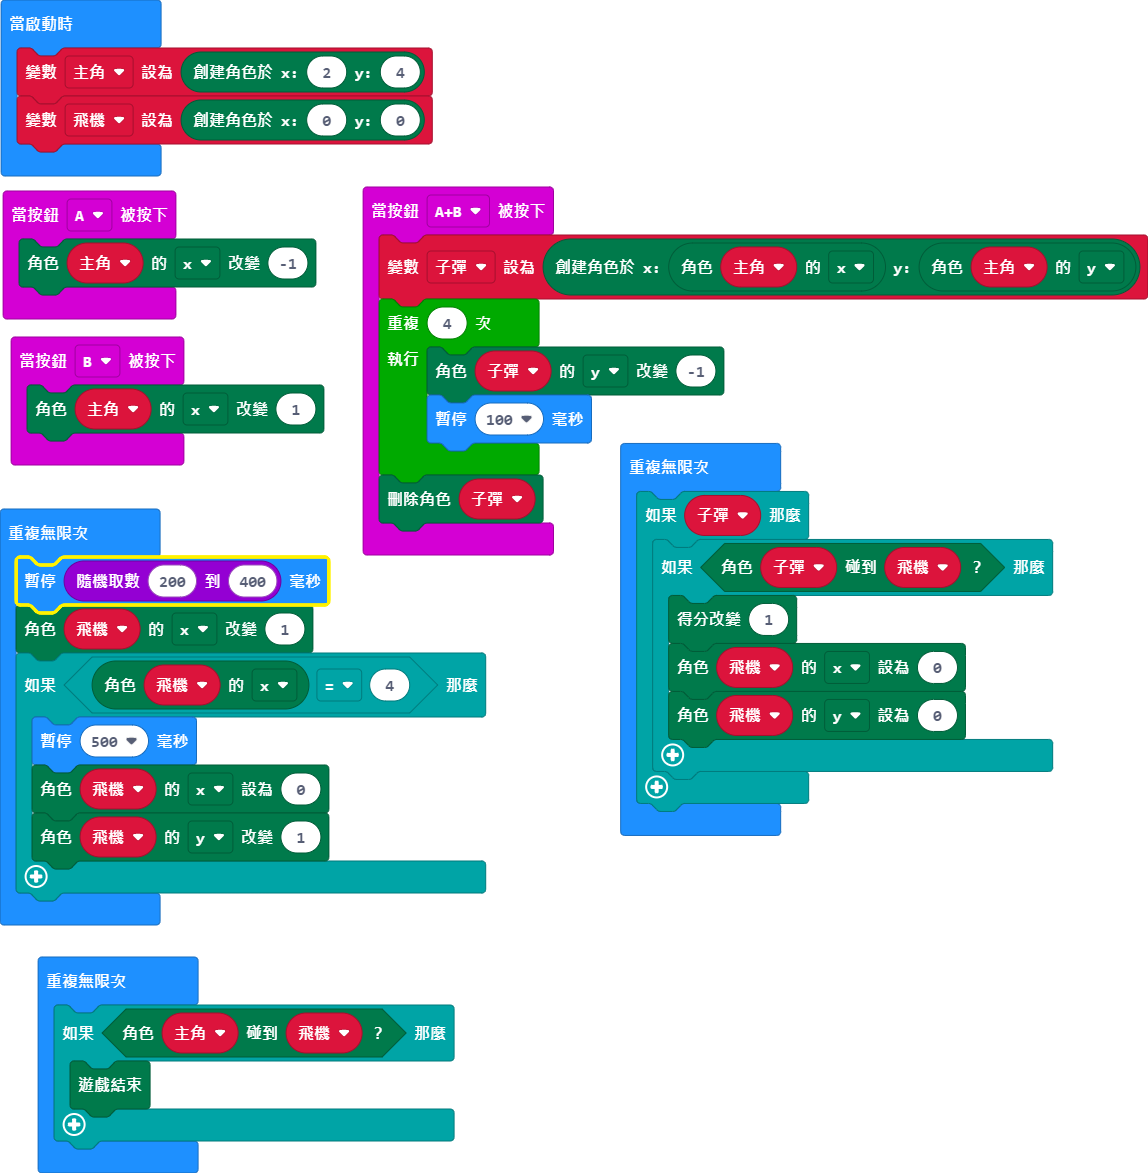
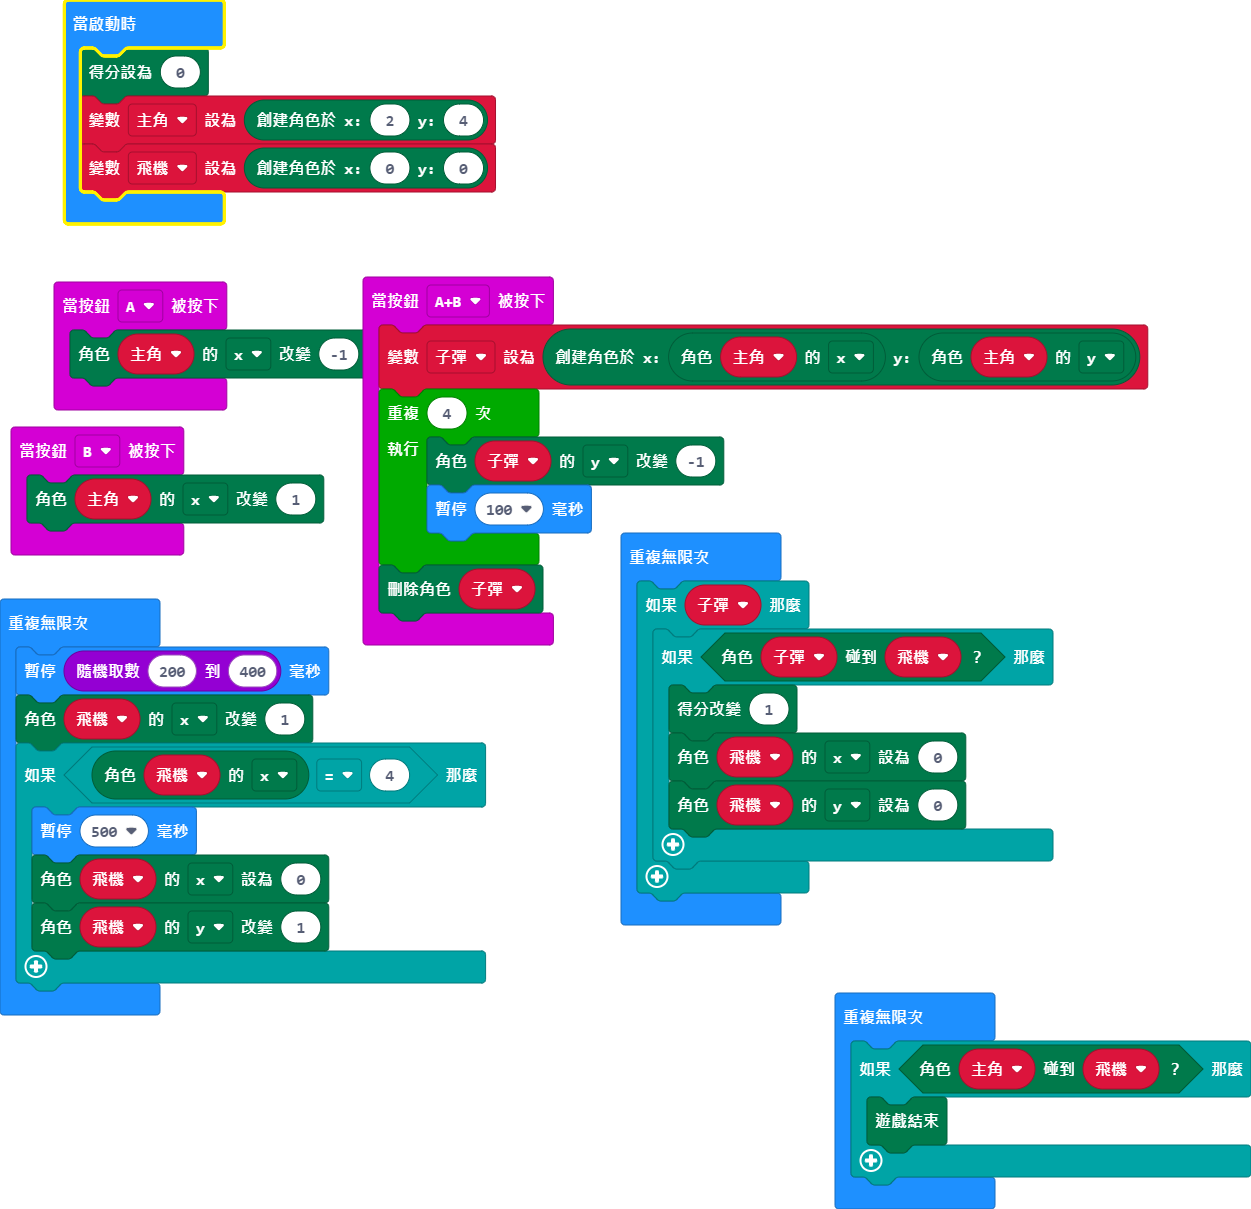
更新 main.blocks, main.ts

diff --git a/main.ts b/main.ts
@@ -14,6 +14,7 @@ input.onButtonPressed(Button.B, function () {
 })
 let 子彈: game.LedSprite = null
 let 主角: game.LedSprite = null
+game.setScore(0)
 主角 = game.createSprite(2, 4)
 let 飛機 = game.createSprite(0, 0)
 basic.forever(function () {
